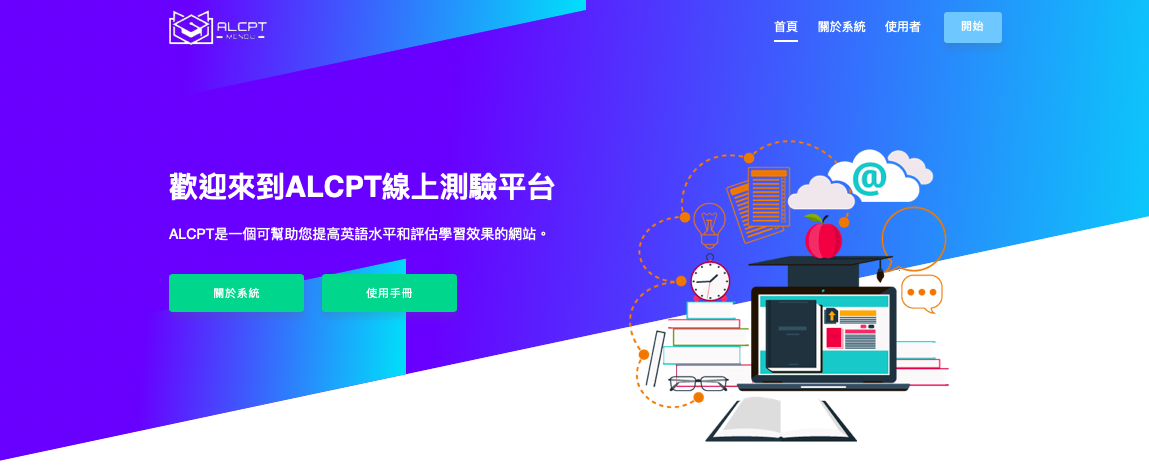
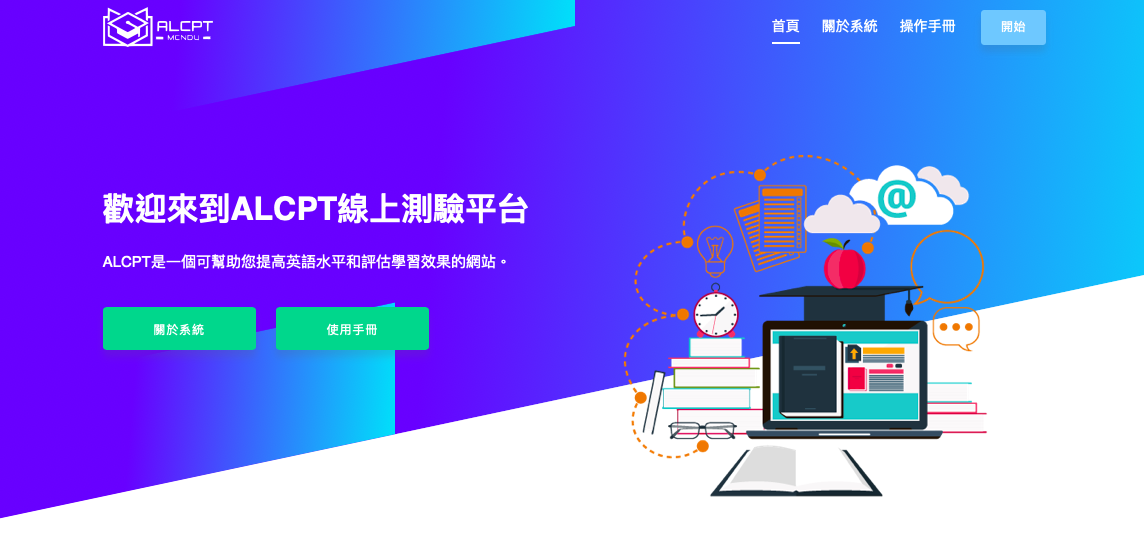
Manual0329

diff --git a/templates/SystemDocument/OperationManual/OM_System.html b/templates/SystemDocument/OperationManual/OM_System.html
@@ -28,13 +28,9 @@
         <ul>
           <p>
             <li>首先，開啟瀏覽器連上系統後，會看到系統首頁。</li>
-            <img
-              src="{{ static('/images/om/system/om-system01.png') }}"
-              width="100%"
-              height="100%"
-            />
-
-            <li>
+            <img src="{{ static('/images/om/system/nom-system01.png') }}" width="100%"/>
+              <li>包含「首頁」、「關於系統」、「操作手冊」、「開始」。</li>
+              <li>
               此時，有兩種方式使用系統：
               <ul>
                 <li>第一，訪客瀏覽系統。</li>
@@ -49,19 +45,10 @@
         <h3>訪客瀏覽系統</h3>
         <ul>
           <p>
-            <li>點選「Start」或「首頁」圖示</li>
-            <img
-              src="{{ static('/images/om/system/om-system02.png') }}"
-              width="100%"
-              height="100%"
-            />
+            <li>點選「開始」圖示進入訪客瀏覽系統</li>
+            <img src="{{ static('/images/om/system/nom-system02.png') }}" width="100%" />
             <li>點選欄位後可觀看該公告詳情</li>
-            <img
-              src="{{ static('/images/om/system/om-system03.png') }}"
-              width="50%"
-              height="50%"
-            />
-          </p>
+            <img src="{{ static('/images/om/system/nom-system03.png') }}" width="50%" height="50%" />
         </ul>
 
         <hr />
@@ -71,12 +58,32 @@
           <p>
             <li>點選「登入」圖示</li>
             <img
-              src="{{ static('/images/om/system/om-system04.png') }}"
-              width="100%"
-              height="100%"
+              src="{{ static('/images/om/system/nom-system04.png') }}" width="70%"
             />
           </p>
         </ul>
+        <hr />
+
+        <h3>關於系統</h3>
+        <ul>
+          <p>
+            <img src="{{ static('/images/om/system/nom-system05.png') }}" width="70%" />
+            
+          </p>
+        </ul>
+        <hr />
+
+
+        <h3>操作手冊</h3>
+        <ul>
+          <p>
+            <img src="{{ static('/images/om/system/nom-system06.png') }}" width="70%" />
+            <li>讓使用者可以更快了解該系統的操作方法。</li>
+          </p>
+        </ul>
+        <hr />
+
+
 
         <hr class="featurette-divider" />
       </div>

diff --git a/templates/SystemDocument/OperationManual/OM_Report.html b/templates/SystemDocument/OperationManual/OM_Report.html
@@ -52,6 +52,8 @@
         <h1>問題回報處理</h1>
         <ul>
           <p>
+            <h2>管理者檢視問題</h2>
+            <li>只有<code><a href="{( url('OM_SystemManager') }}">系統管理員</a></code>、<code><a href="{{ url('OM_TestManager') }}">考試管理員</a></code>、<code><a href="{{ url('OM_TBManager') }}">題庫管理員</a></code>欄下有「使用者問題處理進度」</li>
             <li>經由使用者對於所遇到問題所做的問題回報，應有相關負責的權限來進行處理，故有設計問題類別的責任歸屬。
               請參閱<code><a href="{( url('OM_SystemManager') }}">系統管理員</a></code>的「問題類別列表」、「使用者問題處理進度」，其中有對於問題類別進一步的相關說明。</li>
             <img src="{{ static('/images/om/report/nom-report04.png') }}" width="80%"/>
@@ -64,7 +66,7 @@
             <li>點擊該欄位則可檢視及回覆使用者所提出的問題。</li>
           </p>
         </ul>
-        <h3>管理者檢視問題</h3>
+        
         <ul>
           <p>
             <img src="{{ static('/images/om/report/nom-report12.png') }}" width="48%" />
@@ -78,7 +80,7 @@
           </p>
         </ul>
 
-        <h3>使用者查看回覆</h3>
+        <h2>使用者查看回覆</h2>
         <ul>
           <p>
             <img src="{{ static('/images/om/report/nom-report08.png') }}" width="35%" />
@@ -95,7 +97,7 @@
               </ul>
             
             <p></p>
-            <h4>公告資料</h4>
+            <h3>公告資料</h3>
             <img src="{{ static('/images/om/report/nom-report10.png') }}" width="55%" />
             <img src="{{ static('/images/om/report/nom-report11.png') }}" width="48%" />
             <img src="{{ static('/images/om/report/nom-report14.png') }}" width="48%" />

diff --git a/templates/testee/leaderboard.html b/templates/testee/leaderboard.html
@@ -22,9 +22,9 @@
                         {% if latest_exam %}
                         <h4 class="text-center">{{ latest_exam }}</h4>
                         <tbody>
-                            <th>Rank</th>
-                            <th>Name</th>
-                            <th>Level</th>
+                            <th>{{trans("Rank")}}</th>
+                            <th>{{trans("Name")}}</th>
+                            <th>{{trans("Score")}}</th>
                             {% for answersheet in leaderboard %}
                             {% if loop.index < 11 %}
 
@@ -69,9 +69,9 @@
                 <div class="card-body">
                     <table class="table table-hover table-striped">
                         <tbody>
-                            <th>Rank</th>
-                            <th>Name</th>
-                            <th>Level</th>
+                            <th>{{trans("Rank")}}</th>
+                            <th>{{trans("Name")}}</th>
+                            <th>{{trans("Level")}}</th>
                             {% for user in user_level %}
                             {% if loop.index < 11 %}
 
